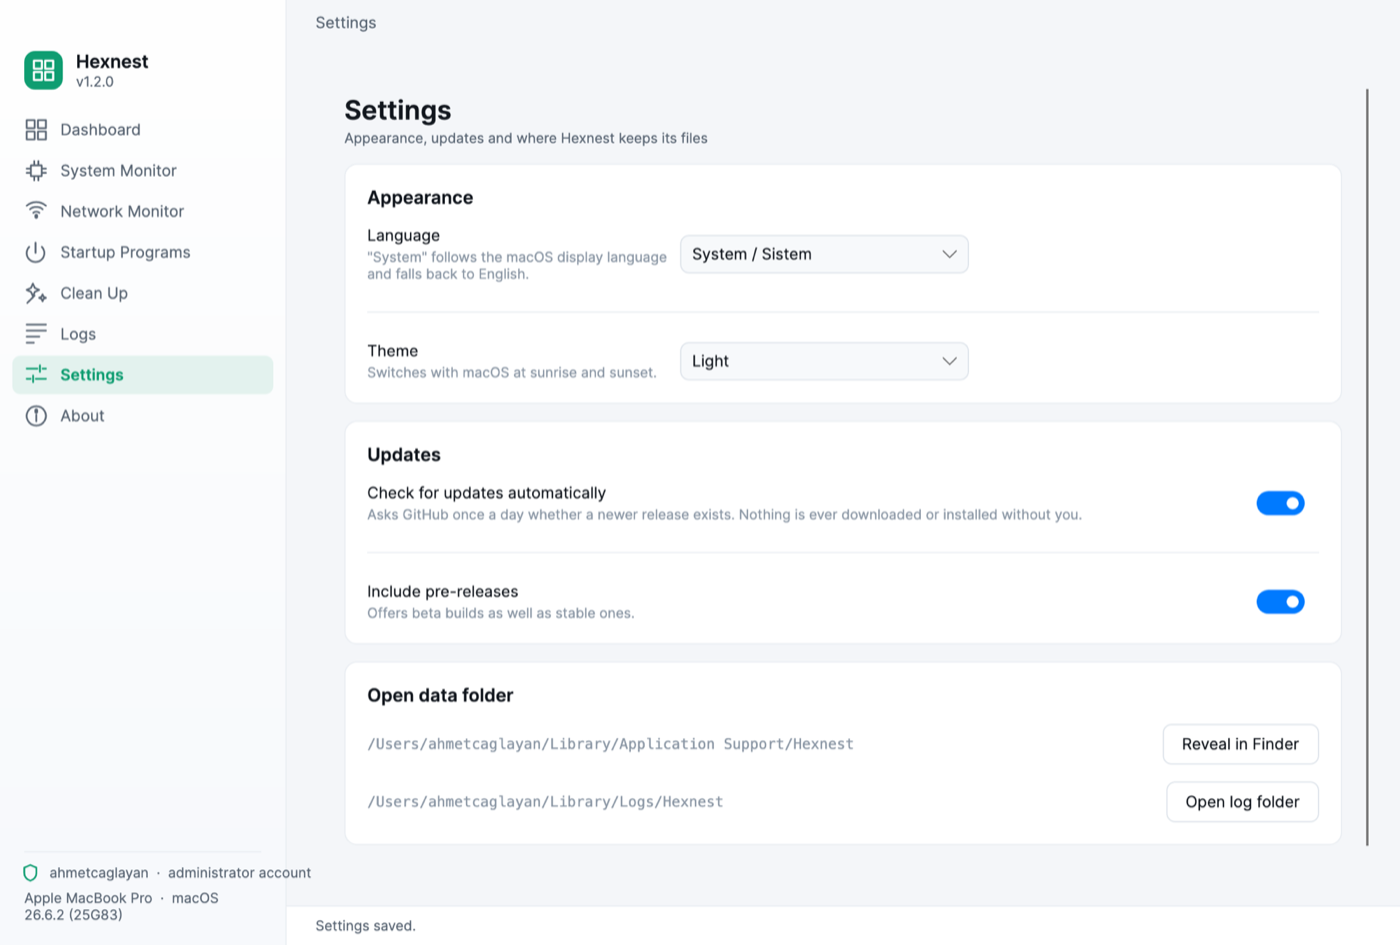
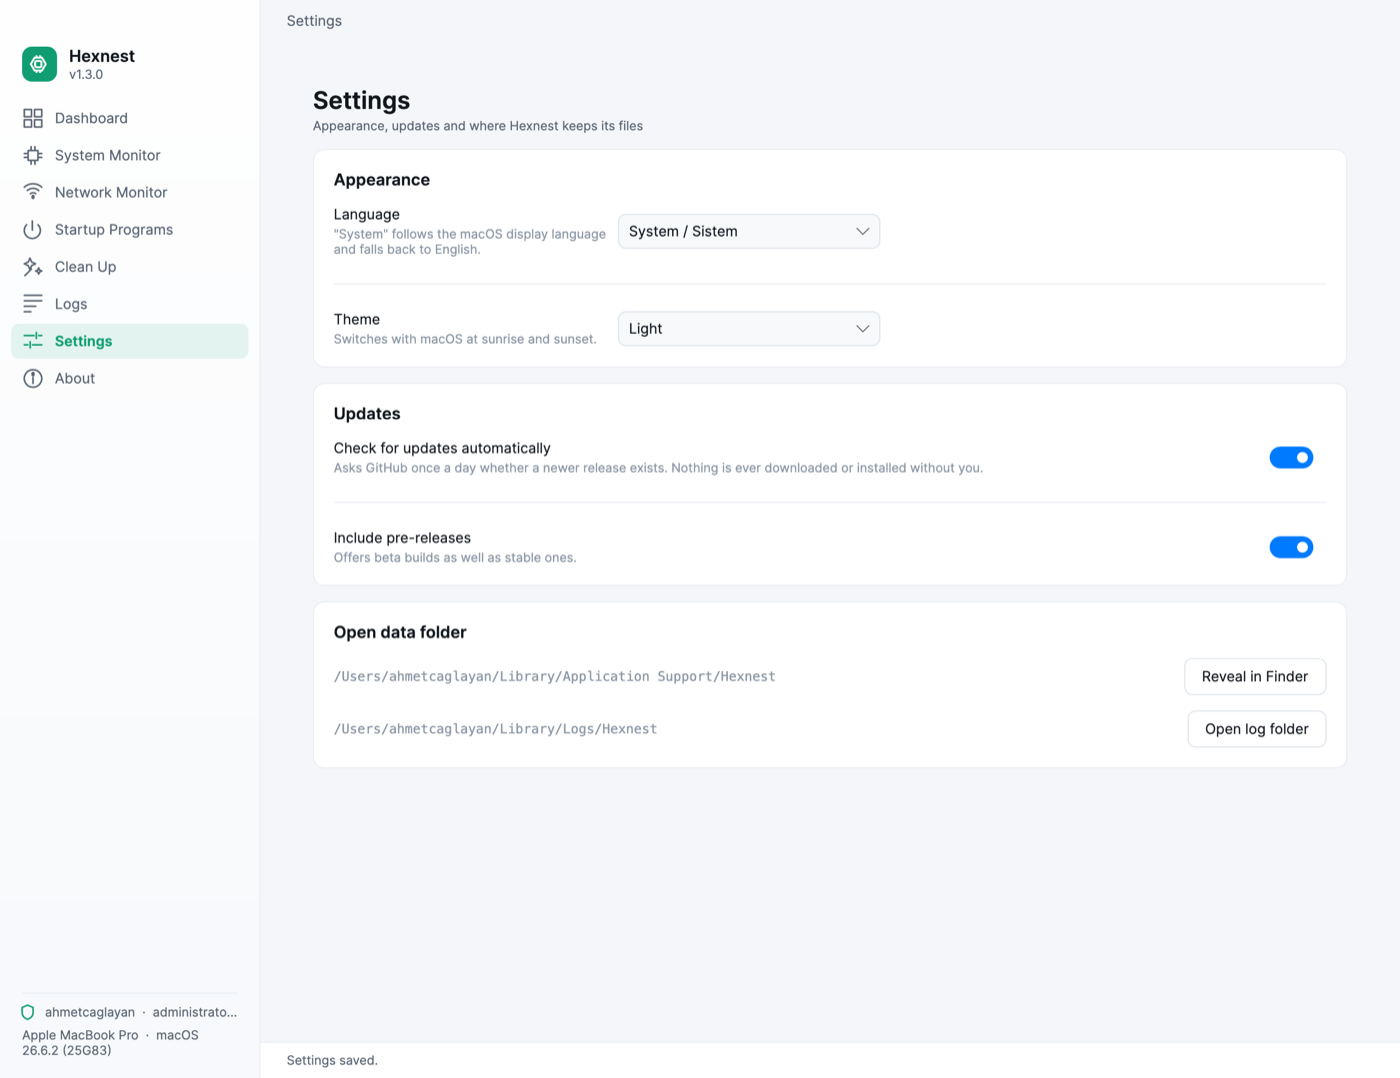
Release 1.3.0, and stop the capture publishing the wrong screenshot
The Clean Up screenshot in the README was the Dashboard. Two capture processes
had briefly shared an output directory, and the renderer photographed whatever
the window happened to be showing rather than the page it had been asked for.

Two fixes, because either alone would have left a way to publish a wrong image:

- The runner now checks that the shell is actually on the requested page before
  it renders, and skips rather than writing a file if it is not. It also deletes
  the previous run's file first, so a skipped page leaves a hole instead of a
  stale image the docs would quietly pick up.
- It waits at DispatcherPriority.ContextIdle after the settle, which is what the
  Windows runner already did. Posting at that priority and awaiting it means the
  content swap, the measure and the arrange queued ahead of it have all run, so
  a render cannot catch the previous page still in the tree.

The Clean Up page also measures nothing until it is asked to, so its screenshot
was the empty state - the runner now presses Scan on it, which is what the
120-second settle was always for.

All eight macOS screenshots regenerated from the 1.3.0 bundle, so they also pick
up the brand mark, the About layout and the start-up page changes made since.

Version bumped to 1.3.0 across Directory.Build.props, the installer, the mac
bundler's fallback, CITATION.cff, the CHANGELOG and the five site pages.

diff --git a/docs/site/hi/index.html b/docs/site/hi/index.html
@@ -56,7 +56,7 @@
   "applicationCategory": "UtilitiesApplication",
   "applicationSubCategory": "ड्राइवर अपडेटर",
   "operatingSystem": "Windows 10, Windows 11",
-  "softwareVersion": "1.2.0",
+  "softwareVersion": "1.3.0",
   "downloadUrl": "https://github.com/ahmetcaglayan/Hexnest/releases/latest",
   "installUrl": "https://github.com/ahmetcaglayan/Hexnest/releases/latest/download/Hexnest.exe",
   "url": "https://ahmetcaglayan.github.io/Hexnest/",
@@ -289,7 +289,7 @@
 
   <section id="whats-new">
     <div class="wrap">
-      <h2>हाल में जोड़ा गया <span class="badge-new">1.2.0</span></h2>
+      <h2>हाल में जोड़ा गया <span class="badge-new">1.3.0</span></h2>
       <p class="section-intro">
         नीचे लिखी हर चीज़ उसी एप्लिकेशन में मौजूद है जो आप डाउनलोड करते हैं। यहाँ कोई रोडमैप
         फ़ीचर सूची बनकर नहीं बैठा है।

diff --git a/docs/site/ru/index.html b/docs/site/ru/index.html
@@ -56,7 +56,7 @@
   "applicationCategory": "UtilitiesApplication",
   "applicationSubCategory": "Программа обновления драйверов",
   "operatingSystem": "Windows 10, Windows 11",
-  "softwareVersion": "1.2.0",
+  "softwareVersion": "1.3.0",
   "downloadUrl": "https://github.com/ahmetcaglayan/Hexnest/releases/latest",
   "installUrl": "https://github.com/ahmetcaglayan/Hexnest/releases/latest/download/Hexnest.exe",
   "url": "https://ahmetcaglayan.github.io/Hexnest/",
@@ -289,7 +289,7 @@
 
   <section id="whats-new">
     <div class="wrap">
-      <h2>Недавние дополнения <span class="badge-new">1.2.0</span></h2>
+      <h2>Недавние дополнения <span class="badge-new">1.3.0</span></h2>
       <p class="section-intro">
         Всё перечисленное ниже есть в выпущенном приложении. Здесь нет раздела с планами,
         который притворяется списком возможностей.

diff --git a/docs/site/index.html b/docs/site/index.html
@@ -56,7 +56,7 @@
   "applicationCategory": "UtilitiesApplication",
   "applicationSubCategory": "System monitor, disk cleaner and driver updater",
   "operatingSystem": "Windows 10, Windows 11, macOS 12, macOS 13, macOS 14, macOS 15",
-  "softwareVersion": "1.2.0",
+  "softwareVersion": "1.3.0",
   "downloadUrl": "https://github.com/ahmetcaglayan/Hexnest/releases/latest",
   "installUrl": "https://github.com/ahmetcaglayan/Hexnest/releases/latest/download/Hexnest.exe",
   "url": "https://ahmetcaglayan.github.io/Hexnest/",
@@ -296,7 +296,7 @@
 
   <section id="whats-new">
     <div class="wrap">
-      <h2>Recently added <span class="badge-new">1.2.0</span></h2>
+      <h2>Recently added <span class="badge-new">1.3.0</span></h2>
       <p class="section-intro">
         Everything below is in the shipping application. There is no roadmap section here
         pretending to be a feature list.

diff --git a/docs/site/tr/index.html b/docs/site/tr/index.html
@@ -56,7 +56,7 @@
   "applicationCategory": "UtilitiesApplication",
   "applicationSubCategory": "Sürücü güncelleyici",
   "operatingSystem": "Windows 10, Windows 11",
-  "softwareVersion": "1.2.0",
+  "softwareVersion": "1.3.0",
   "downloadUrl": "https://github.com/ahmetcaglayan/Hexnest/releases/latest",
   "installUrl": "https://github.com/ahmetcaglayan/Hexnest/releases/latest/download/Hexnest.exe",
   "url": "https://ahmetcaglayan.github.io/Hexnest/",
@@ -290,7 +290,7 @@
 
   <section id="whats-new">
     <div class="wrap">
-      <h2>Son eklenenler <span class="badge-new">1.2.0</span></h2>
+      <h2>Son eklenenler <span class="badge-new">1.3.0</span></h2>
       <p class="section-intro">
         Aşağıdakilerin hepsi yayımlanan uygulamanın içinde. Burada özellik listesi diye
         sunulan bir yol haritası yok.

diff --git a/docs/site/zh/index.html b/docs/site/zh/index.html
@@ -56,7 +56,7 @@
   "applicationCategory": "UtilitiesApplication",
   "applicationSubCategory": "驱动程序更新工具",
   "operatingSystem": "Windows 10, Windows 11",
-  "softwareVersion": "1.2.0",
+  "softwareVersion": "1.3.0",
   "downloadUrl": "https://github.com/ahmetcaglayan/Hexnest/releases/latest",
   "installUrl": "https://github.com/ahmetcaglayan/Hexnest/releases/latest/download/Hexnest.exe",
   "url": "https://ahmetcaglayan.github.io/Hexnest/",
@@ -287,7 +287,7 @@
 
   <section id="whats-new">
     <div class="wrap">
-      <h2>近期新增 <span class="badge-new">1.2.0</span></h2>
+      <h2>近期新增 <span class="badge-new">1.3.0</span></h2>
       <p class="section-intro">
         下面的每一项都在正式发布的应用程序里。这里没有一份假装成功能列表的
         路线图。

diff --git a/src/Hexnest.Mac/Services/CaptureRunner.cs b/src/Hexnest.Mac/Services/CaptureRunner.cs
@@ -112,13 +112,42 @@ public static class CaptureRunner
             {
                 Log.Info($"Capture: {page}");
 
+                // A page that fails to render must not leave the previous run's file
+                // behind for the docs to pick up.
+                try { File.Delete(Path.Combine(folder, page + ".png")); }
+                catch { /* Nothing there, which is the normal case. */ }
+
                 await Dispatcher.UIThread.InvokeAsync(() => shell.Navigate(page));
+
+                // The clean-up page measures nothing until it is asked to. Without this
+                // its screenshot is the empty state, which is not what the page is for.
+                if (page == "clean") await Dispatcher.UIThread.InvokeAsync(() => StartCleanupScan(shell));
 
                 int settle = Settle.TryGetValue(page, out int wait) ? wait : 1_500;
                 await Task.Delay(settle);
 
+                // Let every pending layout and binding actually run. Posting at
+                // ContextIdle and awaiting it means everything queued ahead of it -
+                // the content swap, the measure, the arrange - has completed. Without
+                // it a render can catch the *previous* page still in the tree.
+                await Dispatcher.UIThread.InvokeAsync(() => { }, DispatcherPriority.ContextIdle);
+
                 await Dispatcher.UIThread.InvokeAsync(() =>
                 {
+                    // Photograph the page we asked for, or none at all. An interrupted
+                    // run once produced a "clean.png" that was actually the dashboard,
+                    // and a wrong screenshot is worse than a missing one: it is not
+                    // obviously wrong, so it ships.
+                    var showing = shell.SelectedNav?.Key;
+
+                    if (!string.Equals(showing, page, StringComparison.Ordinal))
+                    {
+                        Log.Error($"Capture: asked for '{page}' but the shell is showing " +
+                                  $"'{showing ?? "nothing"}'. Skipping, so a wrong image " +
+                                  "cannot be published.");
+                        return;
+                    }
+
                     var path = Path.Combine(folder, page + ".png");
                     Render(window, path);
                 });
@@ -136,6 +165,30 @@ public static class CaptureRunner
                 (Application.Current?.ApplicationLifetime
                     as Avalonia.Controls.ApplicationLifetimes.IClassicDesktopStyleApplicationLifetime)
                 ?.Shutdown());
+        }
+    }
+
+    /// <summary>
+    /// Presses "Scan" on the clean-up page, if that is what is on screen.
+    ///
+    /// Reached through the view's DataContext rather than a reference, because the
+    /// pages are built lazily by their nav item and the runner never holds one.
+    /// </summary>
+    private static void StartCleanupScan(MainViewModel shell)
+    {
+        try
+        {
+            if (shell.CurrentView?.DataContext is not CleanupViewModel cleanup) return;
+
+            if (cleanup.ScanCommand.CanExecute(null))
+            {
+                cleanup.ScanCommand.Execute(null);
+                Log.Info("Capture: clean-up scan started.");
+            }
+        }
+        catch (Exception ex)
+        {
+            Log.Warn($"Capture: could not start the clean-up scan: {ex.Message}");
         }
     }
 

diff --git a/CHANGELOG.md b/CHANGELOG.md
@@ -5,7 +5,7 @@ All notable changes to Hexnest are documented in this file.
 The format is based on [Keep a Changelog](https://keepachangelog.com/en/1.1.0/),
 and this project adheres to [Semantic Versioning](https://semver.org/spec/v2.0.0.html).
 
-## [Unreleased]
+## [1.3.0] - 2026-09-07
 
 ### Added
 
@@ -299,7 +299,8 @@ adapter may not have a driver either.
   runs as SYSTEM or as a different administrator account. Falls back to the user
   profile when ProgramData is not writable.
 
-[Unreleased]: https://github.com/ahmetcaglayan/Hexnest/compare/v1.2.0...HEAD
+[Unreleased]: https://github.com/ahmetcaglayan/Hexnest/compare/v1.3.0...HEAD
+[1.3.0]: https://github.com/ahmetcaglayan/Hexnest/compare/v1.2.0...v1.3.0
 [1.2.0]: https://github.com/ahmetcaglayan/Hexnest/releases/tag/v1.2.0
 [1.1.0]: https://github.com/ahmetcaglayan/Hexnest/releases/tag/v1.1.0
 [1.0.0]: https://github.com/ahmetcaglayan/Hexnest/releases/tag/v1.0.0
